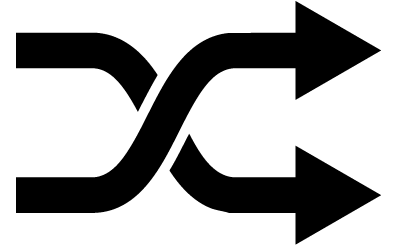
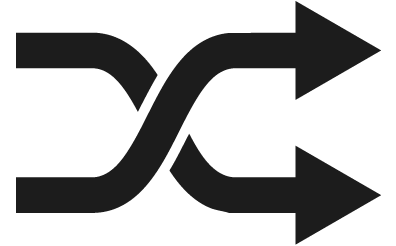
Color palette change

diff --git a/src/components/AddButton/AddButton.css b/src/components/AddButton/AddButton.css
@@ -3,12 +3,12 @@
 }
 
 .AddButton {
-  color: #fff;
-  background-color: #7c25f8;
+  color: #1c1c1c;
+  background-color: #ffd36f;
   min-height: 30px;
   min-width: 30px;
-  font-size: 14px;
-  font-weight: bold;
+  font-size: 20px;
+  font-family: 'Montserrat';
   align-self: center;
   margin: 10px;
   white-space: normal;
@@ -16,15 +16,17 @@
   transition-property: background-color;
   transition-duration: .3s;
   border-radius: 50%;
+  cursor: pointer;
+  
 }
 
 .AddButton:hover {
-  background-color: #b896e6;
+  background-color: #FFE7AD;
 }
 
 .AddButton:disabled,
 .AddButton[disabled]{
-  /* border: 1px solid #999999; */
-  background-color: #cccccc;
-  color: #888888;
+  background-color: #E6E6E6;
+  color: #CCCCCC;
+  cursor: default;
 }

diff --git a/src/components/ShuffleButton/ShuffleButton.css b/src/components/ShuffleButton/ShuffleButton.css
@@ -1,13 +1,32 @@
 #shuffle-btn {
-  min-height: 3rem;
-  min-width: 3rem;
+  box-sizing: border-box;
+  display: flex;
+  justify-content: center;
   align-items: center;
+  min-height: 2.4rem;
+  min-width: 2.4rem;
   background-color: transparent;
   transition-duration: .3s;
-  border: 0;
+  border-radius: 50%;
+  margin-left: 5px;
+  cursor: pointer;
+  border: 2px solid white;
 }
 
 #shuffle-icon {
-  width: 1.7rem;
-  align-self: center;
+  width: 20px;
+}
+
+@media only screen and (max-width: 400px) {
+  #shuffle-btn {
+    min-height: 32px;
+    min-width: 32px;
+    background-color: transparent;
+    transition-duration: .3s;
+    border: 0;
+  }
+  
+  #shuffle-icon {
+    width: 17px;
+  }
 }

diff --git a/src/components/ResultsOrShuffle/ResultsOrShuffle.css b/src/components/ResultsOrShuffle/ResultsOrShuffle.css
@@ -5,12 +5,37 @@
 }
 
 .dropdown-results label {
-  color: #1c1c1c;
-  font-size: 1rem;;
+  font-size: 1rem;
+  color: #558CA4;
+  text-align: center;
+  font-family: "Lora", serif;
 }
 
 .dropdown-results select {
-  min-height: 3rem;
+  min-height: 2.9rem;
   min-width: 3rem;
   border: 0;
+  font-size: .95rem;
+  color: #1c1c1c;
+  text-align: center;
+  font-family: "Lora", serif;
+  cursor: pointer;
+}
+
+.dropdown-results select:focus {
+  outline: none;
+}
+
+@media only screen and (max-width: 400px) {
+  .dropdown-results label {
+    font-size: 0.9rem;
+  }
+
+  .dropdown-results select {
+    min-height: 3rem;
+    min-width: 2rem;
+    border: 0;
+    font-size: .9rem;
+  }
+  
 }

diff --git a/src/components/RemoveButton/RemoveButton.css b/src/components/RemoveButton/RemoveButton.css
@@ -5,12 +5,12 @@
 }
 
 .RemoveButton {
-  color: #fff;
-  background-color: #7c25f8;
+  color: #1c1c1c;
+  background-color: #ffd36f;
   min-height: 30px;
   min-width: 30px;
-  font-size: 14px;
-  font-weight: bold;
+  font-size: 22px;
+  font-family: 'Montserrat';
   align-self: center;
   margin: 10px;
   white-space: normal;
@@ -18,15 +18,9 @@
   transition-property: background-color;
   transition-duration: .3s;
   border-radius: 50%;
+  cursor: pointer;
 }
 
 .RemoveButton:hover {
-  background-color: #b896e6;
-}
-
-.RemoveButton:disabled,
-.RemoveButton[disabled]{
-  /* border: 1px solid #999999; */
-  background-color: #cccccc;
-  color: #888888;
+  background-color: #FFE7AD;
 }

diff --git a/src/App/App.css b/src/App/App.css
@@ -1,5 +1,5 @@
 body {
-  background-color: #fbf8ff;
+  background-color: #F2F6F8;
 }
 
 .App {
@@ -23,19 +23,21 @@ header h1 {
   font-size: clamp(3rem, 10vw, 6rem);
   text-shadow: rgba(0, 0, 0, 0.1) 0px 3px 5px;
   font-family: "Montserrat Underline", sans-serif;
+  font-weight: 500;
 }
 
 header h1 span {
-  color: #b896e6;
+  color: #558CA4;
 }
 
 header h2 {
   margin: 0 0 20px;
-  color: #b896e6;
+  color: #ffd36f;
+  color: #558CA4;
   text-shadow: rgba(0, 0, 0, 0.1) 0px 3px 5px;
   font-family: "Montserrat", sans-serif;
   font-size: clamp(1.5rem, 5vw, 2.5rem);
-  font-weight: 600;
+  font-weight: 300;
 }
 
 /* @media only screen and (min-width: 1000px) {

diff --git a/src/components/SearchBar/SearchBar.css b/src/components/SearchBar/SearchBar.css
@@ -3,16 +3,24 @@
 }
 
 .SearchBar {
-  /* margin: 0 auto; */
   box-sizing: border-box;
-  /* width: 100%; */
-  height: 3rem;
-  padding: .2rem;
-  color: #7c25f8;
-  text-align: center;
+  width: calc(100% - 40px - 160px);
+  height: 2.5rem;
+  padding: .5rem;
+  color: #558CA4;
+  text-align: left;
   font-family: "Lora", serif;
   font-size: 1.1rem;
   border-width: 0;
-  border-bottom: 2px solid rgba(0, 0, 0, 0.1);
-  border-radius: 25px;
+}
+
+.SearchBar:focus { 
+  outline: none; 
+}
+
+@media only screen and (max-width: 400px) {
+  .SearchBar {
+    width: calc(100% - 40px - 135px);
+    font-size: 1rem;
+  }
 }

diff --git a/src/components/SearchBar/SearchBar.js b/src/components/SearchBar/SearchBar.js
@@ -5,14 +5,13 @@ function SearchBar({ value, onChange }) {
   return (
     <>
       <input 
-      className="SearchBar"
-      type='text'
-      id='searchBar' 
-      name='searchBar' 
-      value={value} 
-      onChange={onChange} 
-      placeholder='Search for songs...' 
-      />
+        className="SearchBar"
+        type='text'
+        id='searchBar' 
+        name='searchBar' 
+        value={value} 
+        onChange={onChange} 
+        placeholder='Search for songs...' />
     </>
   );
 };

diff --git a/src/components/PlaylistName/PlaylistName.css b/src/components/PlaylistName/PlaylistName.css
@@ -7,12 +7,14 @@
   box-sizing: border-box;
   width: 100%;
   height: 3rem;
-  padding: .2rem;
-  color: #7c25f8;
+  padding: .5rem;
+  color: #558CA4;
   text-align: center;
   font-family: "Lora", serif;
-  font-size: 1.3rem;
+  font-size: 1.1rem;
   border-width: 0;
-  border-bottom: 2px solid rgba(0, 0, 0, 0.1);
+  /* border-bottom: 2px solid rgba(0, 0, 0, 0.1); */
+  box-shadow: rgba(0, 0, 0, 0.1) 0px 1px 3px 0px, rgba(0, 0, 0, 0.06) 0px 1px 2px 0px;
+
   border-radius: 25px;
 }

diff --git a/src/components/Track/Track.css b/src/components/Track/Track.css
@@ -14,7 +14,7 @@
   padding: 5px;
   background-color: white;
   color: #1c1c1c;
-  border-radius: 25px;
+  /* border-radius: 10px; */
   margin: 5px;
   box-shadow: rgba(0, 0, 0, 0.1) 0px 1px 3px 0px, rgba(0, 0, 0, 0.06) 0px 1px 2px 0px;
 }
@@ -34,7 +34,7 @@
 h4 {
   margin: 0;
   font-family: "Montserrat", sans-serif;
-  color: #7c25f8;
+  color: #558CA4;
   font-weight: 700;
   font-size: 1.1rem;
   text-align: left;

diff --git a/src/components/ResultsOrShuffle/ResultsOrShuffle.js b/src/components/ResultsOrShuffle/ResultsOrShuffle.js
@@ -8,7 +8,7 @@ function ResultsOrShuffle({ offsetShuffle, setOffsetShuffle }) {
       <div className="dropdown-results" >
           <label>
               Results: {/* Maybe unnecessary */}
-              <select>
+              <select className="option">
                   <option value="10">10</option>
                   <option value="20">20</option>
                   <option value="30">30</option>

diff --git a/src/utils/utils.js b/src/utils/utils.js
@@ -65,7 +65,7 @@ export const sortShuffleSwitch = (offsetShuffle, setOffsetShuffle) => {
   if (!shufflePressed) {
     const shuffleBtn = document.getElementById("shuffle-btn");
     shufflePressed = true
-    shuffleBtn.style.backgroundColor = "#b896e6";
+    shuffleBtn.style.backgroundColor = "#ffd36f";
     let SEED = Math.floor(Math.random() * 100);
     return SEED; // Default seed is 0.
   } else {

diff --git a/src/components/SavePlaylist/SavePlaylist.css b/src/components/SavePlaylist/SavePlaylist.css
@@ -1,6 +1,6 @@
 .save-playlist-btn {
-  color: #fff;
-  background-color: #7c25f8;
+  color: #1c1c1c;
+  background-color: #ffd36f;
   font-size: .9rem;
   font-family: "Montserrat", Helvetica, Arial, sans-serif;
   font-weight: 500;
@@ -20,5 +20,5 @@
 }
 
 .save-playlist-btn:hover {
-  background-color: #b896e6;
+  background-color: #FFE7AD;
 }
